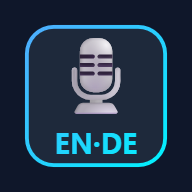
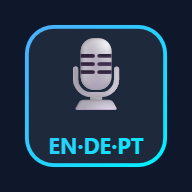
Rename app to English-German-Portuguese to match the repo
The app now teaches all three languages, so align the name everywhere:
- package.json, index.html <title>/<h1>, web manifest name/short_name,
  README and CLAUDE.md titles and descriptions.
- Regenerate the PWA icons to read "EN·DE·PT"; bump the service worker cache
  (engdept-v2) so clients pick up the new shell.

Internal localStorage keys (englishApp*) are left unchanged to preserve existing
users' saved progress. 150 tests pass under npm ci.

diff --git a/index.html b/index.html
@@ -3,7 +3,7 @@
 <head>
     <meta charset="UTF-8">
     <meta name="viewport" content="width=device-width, initial-scale=1.0">
-    <title>english-german-app</title>
+    <title>english-german-portuguese-app</title>
 
     <meta name="apple-mobile-web-app-capable" content="yes">
     <meta name="mobile-web-app-capable" content="yes">
@@ -88,7 +88,7 @@
 <body>
 
 <main class="container">
-    <h1 class="sr-only">English-German App</h1>
+    <h1 class="sr-only">English-German-Portuguese App</h1>
     <div class="auth-row">
         <button id="auth-btn" class="btn-auth" aria-label="Sincronizar progresso" title="Login para sincronizar entre dispositivos">☁ Sync</button>
     </div>

diff --git a/sw.js b/sw.js
@@ -1,6 +1,6 @@
 // Service worker: caches the app shell so the app installs and works offline.
 // Bump CACHE when the shell changes to invalidate the old cache.
-const CACHE = 'engde-v1';
+const CACHE = 'engdept-v2';
 const ASSETS = [
     '.',
     'index.html',

diff --git a/CLAUDE.md b/CLAUDE.md
@@ -5,9 +5,10 @@ code in this repository.
 
 ## Overview
 
-A single-page web app to practise **English** and **German** vocabulary and
-pronunciation, with every phrase translated into **Portuguese**. Plain HTML, CSS
-and JavaScript modules — no framework. The app runs with no build step; the
+A single-page web app to practise **English**, **German** and **Portuguese**
+vocabulary and pronunciation — the learner picks a base language (shown as a
+hint) and a target language, any of the three. Plain HTML, CSS and JavaScript
+modules — no framework. The app runs with no build step; the
 tooling (Vite, Vitest) exists only for local dev-serving and tests.
 
 ## Commands

diff --git a/README.md b/README.md
@@ -1,6 +1,6 @@
-# English-German App
+# English-German-Portuguese App
 
-A single-page web app to practise **English** and **German** vocabulary and pronunciation, with every phrase translated into **Portuguese**.
+A single-page web app to practise **English**, **German** and **Portuguese** vocabulary and pronunciation. Learn any of the three languages, with a hint in a language you already know.
 
 Plain HTML, CSS and JavaScript modules. No framework, no build step required to run.
 
